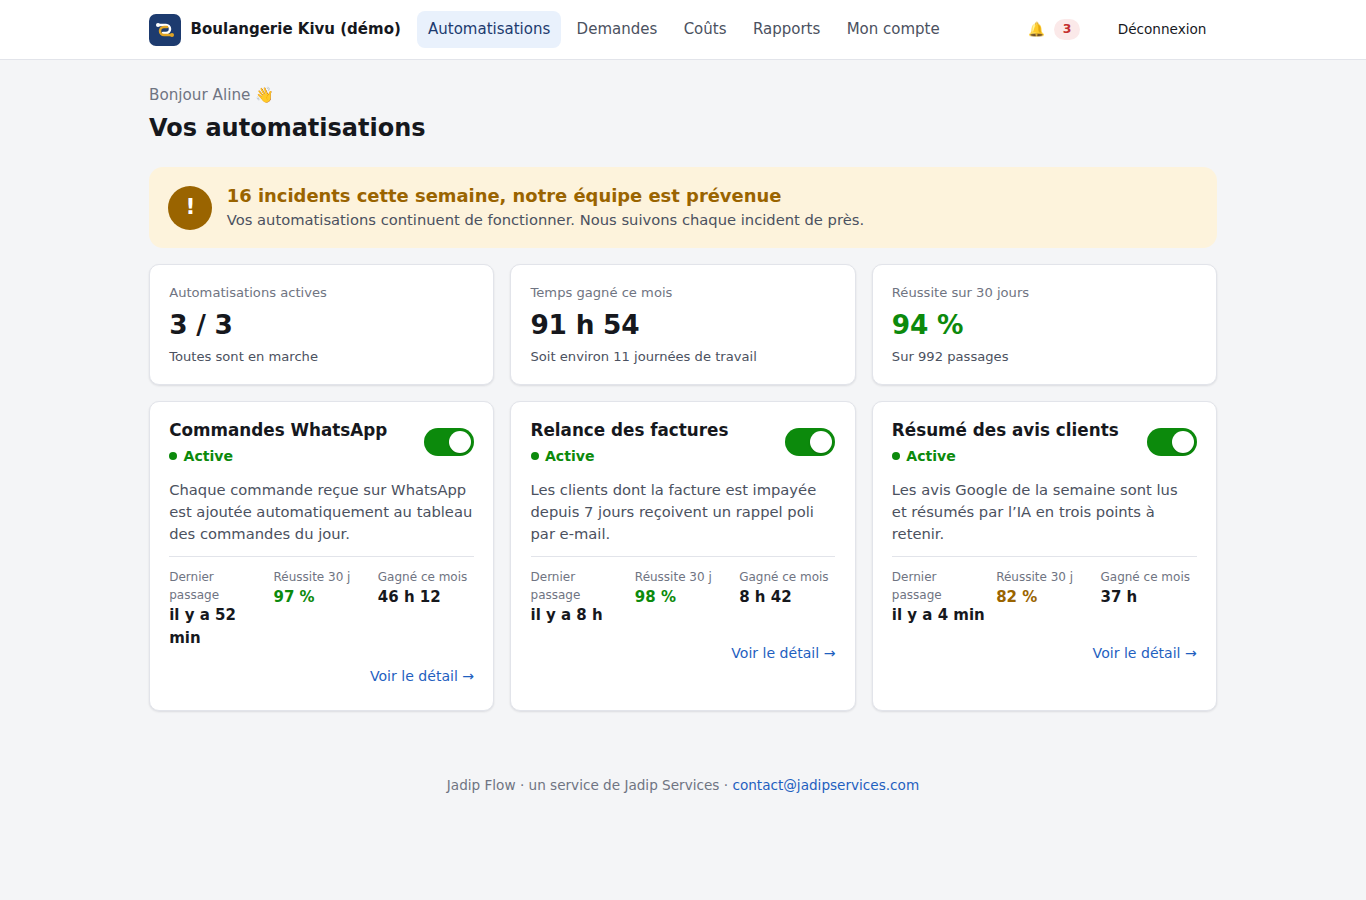
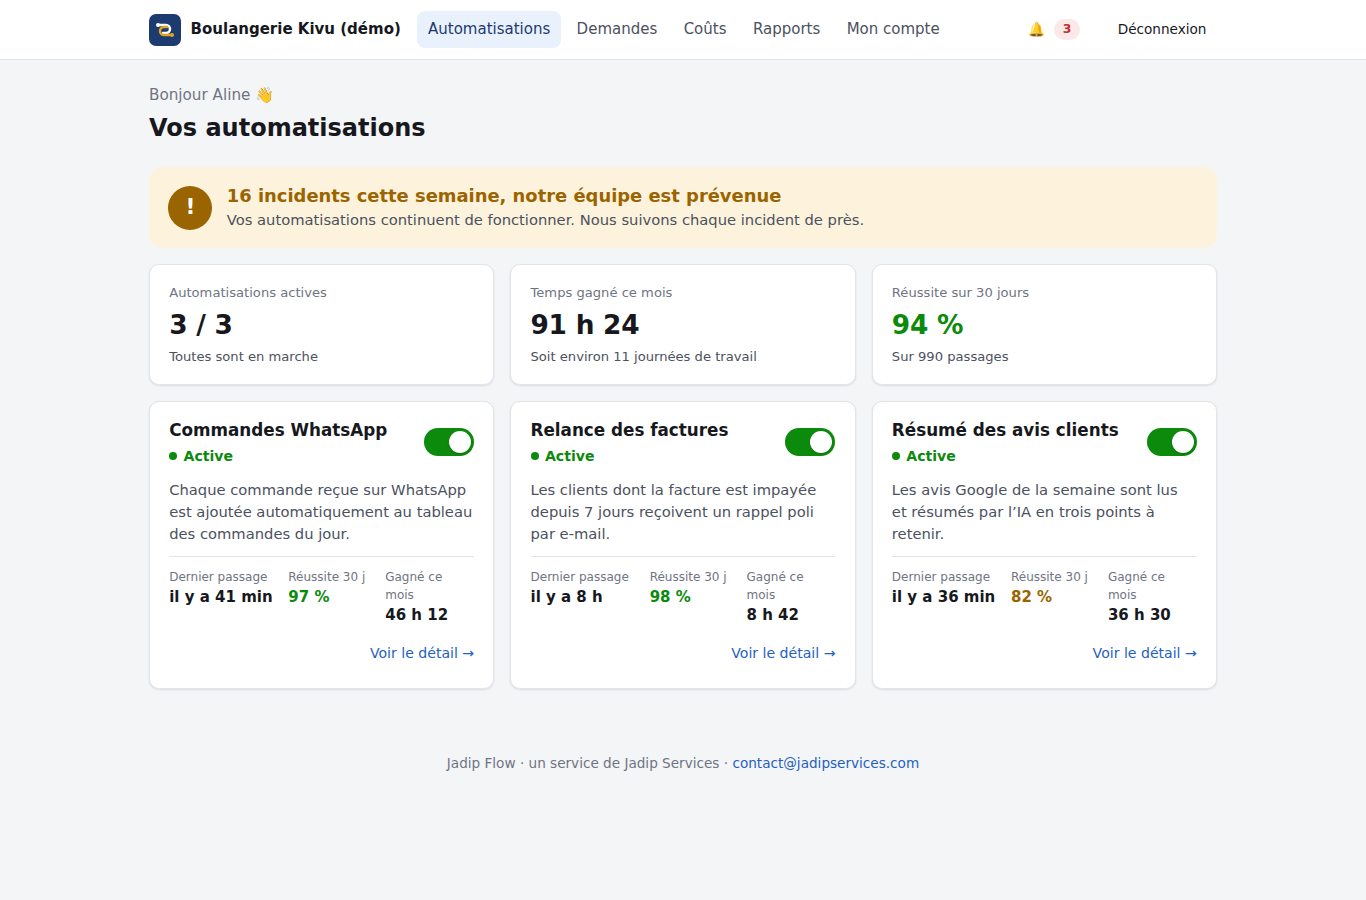
Livraison v1 : rapport de livraison et captures finales
Claude-Session: https://claude.ai/code/session_01Fv2iGwrdpaSWPikixj69Pb

diff --git a/docs/livraison-v1.md b/docs/livraison-v1.md
@@ -1,0 +1,97 @@
+# Rapport de livraison — Jadip Flow v1
+
+Date : 30 septembre 2026 · Dépôt : `didothoye/jadip-flow`, branche `claude/relaxed-newton-temyiq`.
+
+## État en une phrase
+
+Les quatre phases sont développées, testées (53 tests automatisés, dont le cloisonnement et 100 000 exécutions) et empaquetées pour votre VPS (pile Docker Compose validée de bout en bout, sauvegarde et restauration exécutées). **La mise en production n’est pas faite** : je n’ai pas d’accès à votre VPS depuis cet environnement, et votre GO est requis avant chaque mise en production.
+
+## Où le travail a été fait
+
+Le développement, les tests, la construction et l’exécution de la pile Docker ont eu lieu dans un conteneur cloud éphémère (Claude Code sur le web), jamais sur votre ordinateur. Rien n’a été installé sur une machine locale. Tout est poussé dans le dépôt, commit par commit.
+
+## Ce qui est livré, par phase
+
+### Phase 1 — Connexion à n8n et supervision
+- Plusieurs instances n8n : URL + clé API chiffrée (AES-256-GCM, jamais réaffichée), test de connexion, santé, URL publique pour les liens « Ouvrir dans n8n ».
+- Synchronisation toutes les 5 min (réglable par instance) et manuelle : workflows (nom, actif, étiquettes, dates), exécutions (statut, durée, dates, nœud en erreur, message tronqué), **métadonnées seulement** (test dédié). Pagination, conservation réglable, purge automatique.
+- Détection des workflows nouveaux, renommés, supprimés (événements et notification) ; journal des synchronisations ; alerte si la synchronisation échoue.
+- Clients : fiche, logo, rattachement par étiquette `client:<code>` et/ou manuel (le manuel prime), client « Interne ». Une instance ↔ plusieurs clients et inversement.
+- Tableau de bord agence, fiche client, fiche workflow (courbes, exécutions filtrables, erreurs avec nœud fautif, lien n8n, description humaine, temps gagné par exécution).
+- Erreurs classées automatiquement : authentification, limite de débit, réseau, données, logique.
+- Actions : activer / désactiver (confirmation + journal), relance d’une exécution en échec si n8n le permet, « marquer comme traitée », verrou « critique ».
+- Alertes configurables (échec avec regroupement anti-bruit et répétition, inactivité, taux d’échec, synchronisation, budget IA), Telegram / e-mail / application, horaires calmes, par client ou globales.
+
+### Phase 2 — Coûts d’IA et rapports
+- Connecteurs OpenAI (Costs API), Anthropic (Admin API cost_report), OpenRouter (usage par clé de provisionnement), récupération toutes les 6 h ; attribution par projet / espace de travail / clé / modèle, réattribution rétroactive ; saisie manuelle ; estimation par exécution.
+- Coûts par client, workflow, modèle, jour ; budget par client avec alerte.
+- Rapports mensuels PDF et Excel (fond blanc, bordures simples, Times New Roman 12, en-tête Jadip Services, capitalisation française), envoi automatique le 1er du mois aux clients qui l’ont activé ; tableau de rentabilité (facturation vs coût IA).
+
+### Phase 3 — Espace client
+- Comptes créés par vous, invitation par e-mail (lien d’activation 7 jours), double authentification optionnelle, mot de passe oublié.
+- Cloisonnement côté serveur sur chaque route, testé (client A → ressources de B : refusé ; balayage automatique de toutes les routes agence).
+- « Vos automatisations » : bandeau d’état, cartes (nom lisible, description, état, dernier passage, réussite 30 j, temps gagné), fiche avec historique et incidents expliqués en français simple, coûts et budget (si autorisé), rapports téléchargeables.
+- Actions : activer / désactiver (sauf verrouillé), pause 1 h / 24 h / 7 jours avec reprise automatique, relance (si autorisée), demandes avec pièces jointes (notifiées sur votre Telegram), suivi des statuts, préférences de notification, résumé hebdomadaire.
+- Chaque action client est journalisée et vous est notifiée. Responsive, PWA installable.
+- Préparé sans l’activer : colonnes `brand_*` (marque blanche) et `billing_*` (abonnement) sur les clients.
+
+### Phase 4 — Intégrations et exploitation
+- API REST v1 documentée (OpenAPI sur `/api/docs`), jetons par utilisateur (lecture / actions), limitation de débit, journalisation.
+- Webhooks sortants signés HMAC (erreur, workflow désactivé par un client, demande créée…), avec nouvelles tentatives.
+- Serveur MCP en lecture (`/mcp`) pour Claude Code, chaque appel journalisé.
+- Sauvegardes chiffrées quotidiennes (age ou gpg) avec copie hors serveur (rclone), **restauration testée** trois fois (base locale, conteneur jetable, restauration réelle dans la pile Compose).
+- Journal d’audit inaltérable : chaîne SHA-256, déclencheurs, et rôle base de données restreint (l’application elle-même ne peut ni modifier ni effacer le journal — testé).
+- Performances mesurées sur 100 000 exécutions : pages de liste en 2 à 5 ms, tableaux de bord entre 30 et 150 ms (voir `performances.md`).
+- Documentation : guide agence, guide client (français simple), procédure instance + client, déploiement, API, sécurité.
+
+## Captures
+
+Dans `docs/captures/` : tableau de bord agence (bureau et mobile), fiche client, fiche workflow et « Présentation au client », coûts, erreurs, instances, workflows (mobile), connexion (mobile), et côté client : accueil des deux clients de démonstration (bureau et mobile), fiche d’automatisation, dialogue de pause, coûts, rapports, demandes, nouvelle demande, conversation.
+
+## Jeu de démonstration
+
+`node dist/demo.js` (ou `tools/dev-demo.sh` en développement) avec l’instance n8n de test fournie (`tools/fake-n8n`, API n8n v1 simulée, activité continue) :
+- **Boulangerie Kivu (démo)** — coûts visibles, relance autorisée, budget et facturation renseignés ;
+- **Cabinet Lumière (démo)** — coûts masqués, relance non autorisée, un workflow inactif ;
+- comptes `demo-agence@jadipservices.com`, `aline@kivu.example`, `patrick@lumiere.example` (mot de passe `Demo2026Jadip`, modifiable via `DEMO_PASSWORD`).
+
+## Choix que j’ai tranchés seul
+
+| Sujet | Choix | Raison |
+|---|---|---|
+| Stack | Node.js 22 + TypeScript + Fastify, PostgreSQL 16, React + Vite | Durable, un seul langage, image unique ; conforme à « backend + PostgreSQL + interface responsive ». |
+| Domaine | `flow.jadipservices.com` | Plus court et plus parlant pour les clients que `portail.` ; modifiable dans `brand.config.json` et `.env`. |
+| Fuseau et devise | Africa/Kinshasa ; montants en dollars US | Fuseau des clients ; les fournisseurs d’IA facturent en USD. |
+| Erreurs côté client | Explication simple par catégorie, jamais le message technique | Vocabulaire non technique, et aucune fuite de données. |
+| Anti-bruit | 1re notification immédiate, regroupement des suivantes (15 min), rappel des alertes persistantes (4 h par défaut) ; résolution automatique après un succès | Réactif sans spammer ; réglable par règle. |
+| Horaires calmes | 22 h – 7 h, messages différés à la fin de la plage, sauf alertes critiques | Une panne critique doit vous réveiller. |
+| Relance | Via `POST /executions/{id}/retry` de l’API n8n ; si votre version ne l’expose pas, message clair et relance depuis n8n | L’API publique n’offre la relance que sur les versions récentes. |
+| Première synchronisation | 20 000 exécutions récentes au plus, conservation 90 jours | Évite de surcharger n8n ; réglable. |
+| Coûts OpenRouter | Delta quotidien de l’usage cumulé par clé | C’est la seule donnée fiable par clé exposée par OpenRouter. |
+| Sauvegardes | age (clé publique sur le serveur, clé privée hors serveur) ; gpg possible | Une compromission du VPS ne permet pas de lire les sauvegardes. |
+| Rôle base | Rôle propriétaire pour les migrations, rôle restreint pour l’application | Rend le journal d’audit réellement inaltérable pour l’application. |
+| Clients « à risque » | Aucune exécution depuis N jours (3 par défaut, réglable par client), > 20 % d’échecs sur 7 jours (au moins 5 exécutions), budget IA dépassé | Seuils raisonnables ; réglables dans Paramètres. |
+
+## Ce qui reste à faire de votre côté
+
+1. **Donner le GO de mise en production** et un moyen d’accès au VPS (ou lancer vous-même la procédure `docs/deploiement.md`, environ 15 minutes).
+2. Renseigner `deploy/.env` : secrets générés, SMTP Zoho, bot Telegram (jeton + votre identifiant de discussion), e-mail d’alerte.
+3. Jeton Cloudflare (Zone DNS : Edit) et identifiants Nginx Proxy Manager pour les deux scripts ; moniteurs uptime-kuma (HTTP + push sauvegarde).
+4. Générer la clé age de sauvegarde **hors du VPS**, configurer le remote rclone et la tâche cron ; conserver `APP_ENCRYPTION_KEY` dans votre gestionnaire de mots de passe.
+5. Créer une clé API dans votre n8n (mode queue), ajouter l’instance, puis étiqueter vos workflows : `client:amani`, `client:mosolo`, `client:pabea`, `client:grace`, `client:interne` (codes à confirmer), et rédiger les descriptions « client ».
+6. Clés d’administration des fournisseurs d’IA : OpenAI (*Admin key*), Anthropic (*Admin API key*), OpenRouter (*provisioning key*). Idéalement un projet / espace de travail / clé par client.
+7. Comptes clients réels : invitations depuis chaque fiche client, facturation mensuelle et budgets pour la rentabilité.
+8. Vérifier sur votre n8n que la relance via l’API est disponible (sinon le portail l’indique proprement).
+
+## Ce que vous devez vérifier
+
+- Connexion avec la double authentification, puis le parcours d’un client de démonstration (5 secondes pour comprendre l’état).
+- Les rapports PDF et Excel générés correspondent à vos règles de mise en forme (exemples dans la démo, menu Rapports).
+- La liste de vos codes clients et les seuils d’alerte par défaut.
+- Après la mise en production : un test de restauration (`restore-test.sh`), et la réception d’une alerte Telegram (bouton « Envoyer un test » dans Paramètres).
+
+## Limites connues
+
+- Le journal d’audit peut toujours être altéré par un accès administrateur direct au serveur PostgreSQL (hors application) ; la copie chiffrée hors serveur en garde la trace.
+- La marque blanche et la facturation par client sont préparées en base, mais pas activées.
+- La construction de l’image Docker n’a pas pu télécharger les paquets npm depuis le conteneur de développement (réseau restreint) : l’image a été assemblée à partir des mêmes fichiers compilés localement et la pile complète a tourné. Sur votre VPS, `docker compose build` télécharge normalement.
